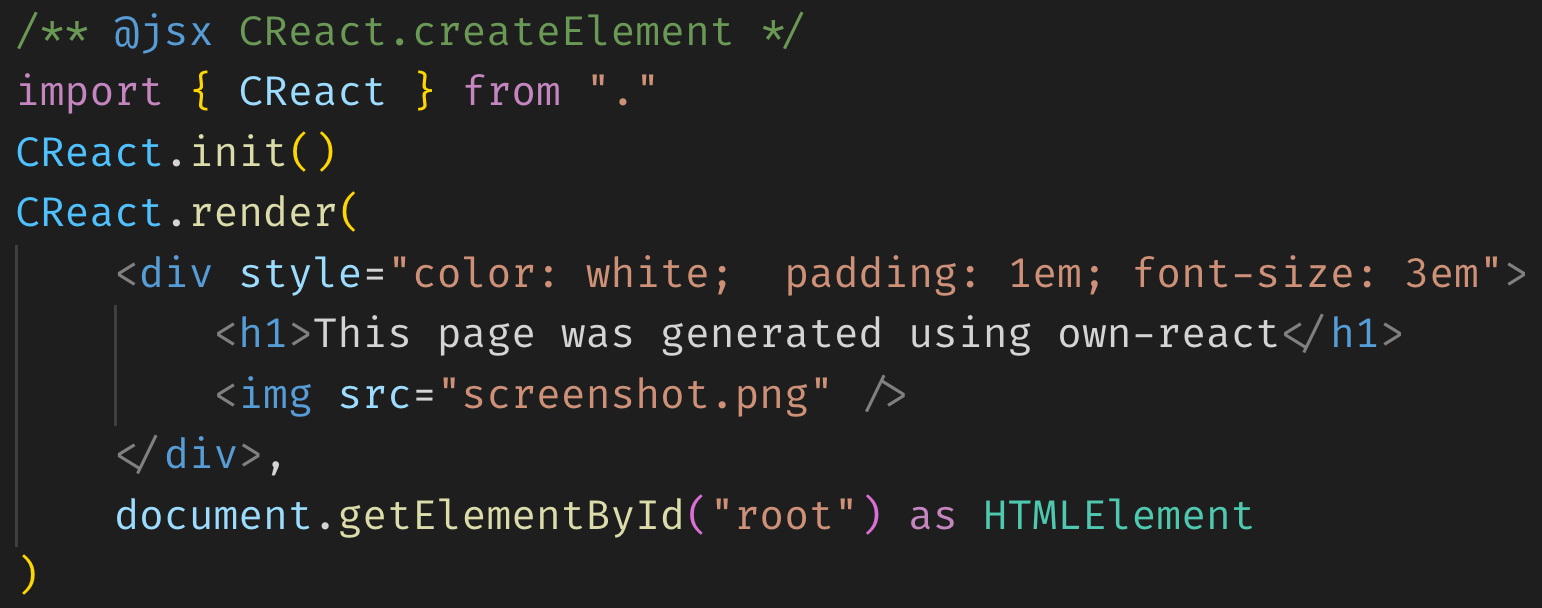
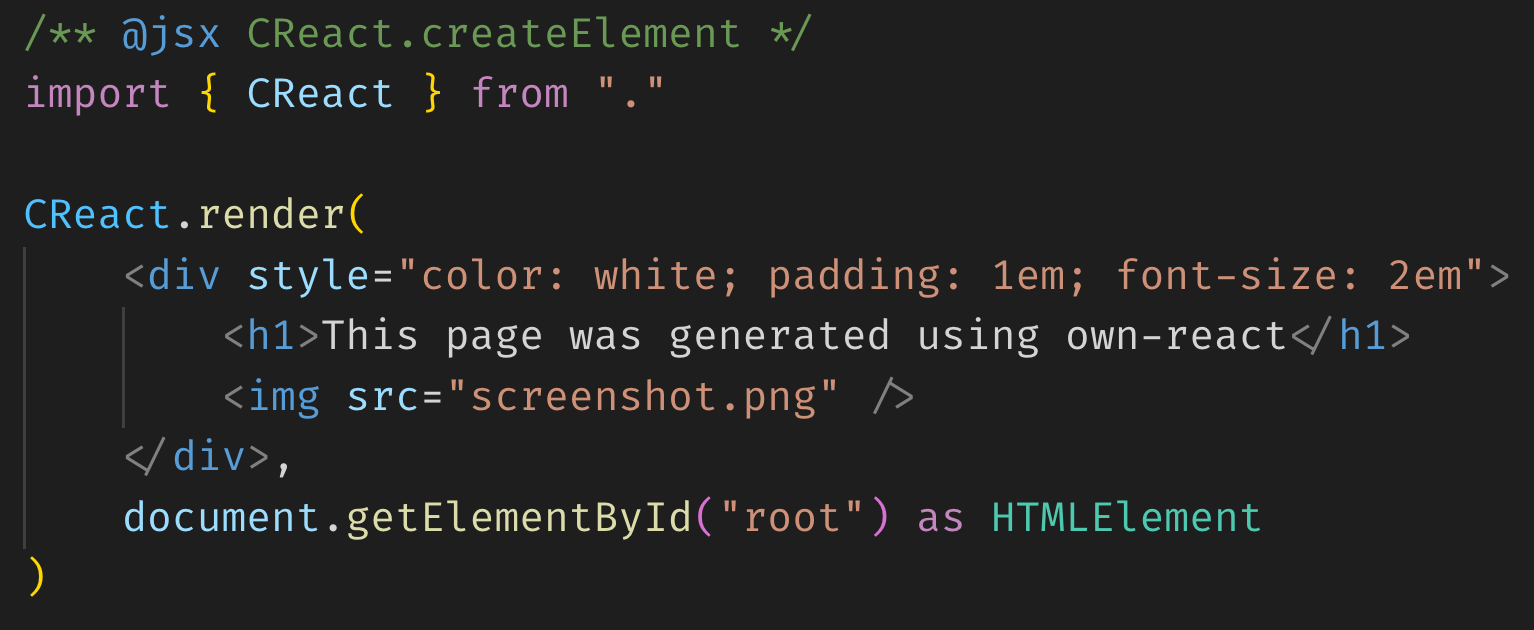
lazy commit + fiber tree traversing clean up

diff --git a/src/index.ts b/src/index.ts
@@ -1,8 +1,9 @@
+export const keys = <T extends AnyObject>(o: T) => Object.keys(o) as any as Array<keyof T>
+
 type CTextTag = string | number
 type CProps<T extends AnyObject> = { children: Array<CElement> } & T
-
-export type CTextElement<T extends CTextTag> = { type: string; props: CProps<{ nodeValue: T }> }
-export type CElement<T extends AnyObject = AnyObject> = { type: string; props: CProps<T> } | CTextElement<CTextTag>
+type CTextElement<T extends CTextTag> = { type: string; props: CProps<{ nodeValue: T }> }
+type CElement<T extends AnyObject = AnyObject> = { type: string; props: CProps<T> } | CTextElement<CTextTag>
 
 const createElement = <T extends AnyObject>(
 	type: string,
@@ -22,8 +23,6 @@ const createTextElement = <T extends CTextTag>(text: T): CTextElement<T> => ({
 	props: { nodeValue: text, children: [] }
 })
 
-const keys = <T extends AnyObject>(o: T) => Object.keys(o) as any as Array<keyof T>
-
 const createDom = <T extends Pick<Fiber, "type" | "props">>({ type, props }: T) => {
 	const node = type === TEXT_ELEMENT ? document.createTextNode("") : document.createElement(type)
 	keys(props)
@@ -33,7 +32,7 @@ const createDom = <T extends Pick<Fiber, "type" | "props">>({ type, props }: T) 
 }
 
 type NFiber = Fiber | null
-export type Fiber<T extends AnyObject = AnyObject> = {
+type Fiber<T extends AnyObject = AnyObject> = {
 	props: CProps<T>
 	type: string
 	dom: HTMLElement | Text | null
@@ -42,64 +41,82 @@ export type Fiber<T extends AnyObject = AnyObject> = {
 	sibling: NFiber
 }
 
-export const Fiber = ({ type, props }: CElement, parent: NFiber = null): Fiber => ({
+const mkFiber = ({ type, props }: CElement, delta: Partial<Fiber> = {}): Fiber => ({
 	type,
 	props,
-	parent,
+	parent: null,
 	dom: null,
 	child: null,
-	sibling: null
+	sibling: null,
+	...delta
 })
 
-let nextUnitOfWork: NFiber = null
 let rootFiber: NFiber = null
+let nextFiber: NFiber = null
 
-const workLoop = (deadline: IdleDeadline) => {
-	for (let pause = false; nextUnitOfWork && !pause; pause = deadline.timeRemaining() < 1)
-		nextUnitOfWork = performUnitOfWork(nextUnitOfWork)
-	requestIdleCallback(workLoop)
+// for testing purposes
+let _requestIdleCallback: typeof requestIdleCallback
+const init = (requestIdleCb?: typeof requestIdleCallback) => {
+	_requestIdleCallback = requestIdleCb || requestIdleCallback
+	_requestIdleCallback(workLoop)
 }
 
-export const buildChildren = (fiber: Fiber) => {
-	let prev: NFiber = null
-	fiber.props.children
-		.map(child => Fiber(child, fiber))
-		.forEach(current => {
-			if (!prev) fiber.child = current
-			else prev.sibling = current
-			prev = current
-		})
-}
-
-const performUnitOfWork = (fiber: Fiber): NFiber => {
-	if (!fiber.dom) fiber.dom = createDom(fiber)
-	if (fiber.parent) fiber.parent.dom?.appendChild(fiber.dom)
-
-	buildChildren(fiber)
-
-	if (fiber.child) return fiber.child
-
-	for (let f: NFiber = fiber; f; f = f.parent) if (f.sibling) return f.sibling
-
+const buildFibers = (fiber: NFiber, t: IdleDeadline) => {
+	while (fiber) {
+		if (t.timeRemaining() < 1) return fiber
+		fiber = buildFiber(fiber)
+	}
 	return null
 }
 
-const render = (element: CElement, dom: HTMLElement) => {
-	rootFiber = {
-		dom,
-		props: { children: [element] },
-		parent: null,
-		child: null,
-		sibling: null,
-		type: "ROOT"
+const workLoop = (deadline: IdleDeadline) => {
+	nextFiber = buildFibers(nextFiber, deadline)
+
+	if (!nextFiber && rootFiber) {
+		commit(rootFiber.child)
+		rootFiber = null
 	}
-	nextUnitOfWork = rootFiber
+
+	_requestIdleCallback(workLoop)
 }
 
-const init = () => requestIdleCallback(workLoop)
-const blockingRender = ({ type, props }: CElement, dest: HTMLElement) => {
-	const node = createDom({ type, props })
-	if (type !== TEXT_ELEMENT) props.children.forEach(child => blockingRender(child, node as HTMLElement))
-	dest.appendChild(node)
+const buildFiber = (fiber: NFiber): NFiber => {
+	if (!fiber) return null
+	if (!fiber.dom) fiber.dom = createDom(fiber)
+
+	buildFiberChildren(fiber)
+
+	if (fiber.child) return fiber.child
+	for (; fiber; fiber = fiber.parent) if (fiber.sibling) return fiber.sibling
+	return null
 }
-export const CReact = { createElement, render, blockingRender, init }
+
+const buildFiberChildren = (fiber: Fiber) => {
+	let prev: NFiber = null
+	fiber.props.children
+		.map(child => mkFiber(child, { parent: fiber }))
+		.forEach(child => {
+			if (!prev) fiber.child = child
+			else prev.sibling = child
+			prev = child
+		})
+}
+
+const render = (element: CElement, dom: HTMLElement) => {
+	if (!_requestIdleCallback) init()
+	rootFiber = mkFiber({ type: "ROOT", props: { children: [element] } }, { dom })
+	nextFiber = rootFiber
+}
+
+const commit = (fiber: NFiber) => {
+	if (!fiber) return
+
+	const { parent, child, sibling } = fiber
+	if (parent && parent.dom && fiber.dom) parent.dom.appendChild(fiber.dom)
+
+	commit(child)
+	commit(sibling)
+}
+
+export const CReactInternal = { mkFiber, buildFibers, buildFiber, buildFiberChildren }
+export const CReact = { createElement, render }

diff --git a/docs/example.35a0952f.js b/docs/example.35a0952f.js
@@ -1,0 +1,6 @@
+parcelRequire=function(e,r,t,n){var i,o="function"==typeof parcelRequire&&parcelRequire,u="function"==typeof require&&require;function f(t,n){if(!r[t]){if(!e[t]){var i="function"==typeof parcelRequire&&parcelRequire;if(!n&&i)return i(t,!0);if(o)return o(t,!0);if(u&&"string"==typeof t)return u(t);var c=new Error("Cannot find module '"+t+"'");throw c.code="MODULE_NOT_FOUND",c}p.resolve=function(r){return e[t][1][r]||r},p.cache={};var l=r[t]=new f.Module(t);e[t][0].call(l.exports,p,l,l.exports,this)}return r[t].exports;function p(e){return f(p.resolve(e))}}f.isParcelRequire=!0,f.Module=function(e){this.id=e,this.bundle=f,this.exports={}},f.modules=e,f.cache=r,f.parent=o,f.register=function(r,t){e[r]=[function(e,r){r.exports=t},{}]};for(var c=0;c<t.length;c++)try{f(t[c])}catch(e){i||(i=e)}if(t.length){var l=f(t[t.length-1]);"object"==typeof exports&&"undefined"!=typeof module?module.exports=l:"function"==typeof define&&define.amd?define(function(){return l}):n&&(this[n]=l)}if(parcelRequire=f,i)throw i;return f}({"B6dB":[function(require,module,exports) {
+"use strict";function n(r){return(n="function"==typeof Symbol&&"symbol"==typeof Symbol.iterator?function(n){return typeof n}:function(n){return n&&"function"==typeof Symbol&&n.constructor===Symbol&&n!==Symbol.prototype?"symbol":typeof n})(r)}Object.defineProperty(exports,"__esModule",{value:!0}),exports.keys=exports.CReactInternal=exports.CReact=void 0;var r=function(){return(r=Object.assign||function(n){for(var r,e=1,t=arguments.length;e<t;e++)for(var o in r=arguments[e])Object.prototype.hasOwnProperty.call(r,o)&&(n[o]=r[o]);return n}).apply(this,arguments)},e=function(n){return Object.keys(n)};exports.keys=e;var t,o=function(e,t){void 0===t&&(t={});for(var o=[],i=2;i<arguments.length;i++)o[i-2]=arguments[i];return{type:e,props:r(r({},t),{children:o.map(function(r){return"object"===n(r)?r:l(r)})})}},i="TEXT_ELEMENT",l=function(n){return{type:i,props:{nodeValue:n,children:[]}}},u=function(n){var r=n.type,t=n.props,o=r===i?document.createTextNode(""):document.createElement(r);return e(t).filter(function(n){return"children"!==n}).forEach(function(n){return o[n]=t[n]}),o},c=function(n,e){var t=n.type,o=n.props;return void 0===e&&(e={}),r({type:t,props:o,parent:null,dom:null,child:null,sibling:null},e)},p=null,f=null,a=function(n){(t=n||requestIdleCallback)(s)},d=function(n,r){for(;n;){if(r.timeRemaining()<1)return n;n=y(n)}return null},s=function n(r){!(f=d(f,r))&&p&&(h(p.child),p=null),t(n)},y=function(n){if(!n)return null;if(n.dom||(n.dom=u(n)),b(n),n.child)return n.child;for(;n;n=n.parent)if(n.sibling)return n.sibling;return null},b=function(n){var r=null;n.props.children.map(function(r){return c(r,{parent:n})}).forEach(function(e){r?r.sibling=e:n.child=e,r=e})},m=function(n,r){t||a(),p=c({type:"ROOT",props:{children:[n]}},{dom:r}),f=p},h=function n(r){if(r){var e=r.parent,t=r.child,o=r.sibling;e&&e.dom&&r.dom&&e.dom.appendChild(r.dom),n(t),n(o)}},v={mkFiber:c,buildFibers:d,buildFiber:y,buildFiberChildren:b};exports.CReactInternal=v;var g={createElement:o,render:m};exports.CReact=g;
+},{}],"UWex":[function(require,module,exports) {
+"use strict";var e=require(".");e.CReact.render(e.CReact.createElement("div",{style:"color: white; padding: 1em; font-size: 2em"},e.CReact.createElement("h1",null,"This page was generated using own-react"),e.CReact.createElement("img",{src:"screenshot.png"})),document.getElementById("root"));
+},{".":"B6dB"}]},{},["UWex"], null)
+//# sourceMappingURL=example.35a0952f.js.map

diff --git a/src/index.spec.tsx b/src/index.spec.tsx
@@ -1,25 +1,25 @@
 /** @jsx CReact.createElement */
-import { buildChildren, CReact, Fiber } from "."
+import { CReactInternal, CReact } from "."
 import { lazyToEqual, toEqual } from "./test-helpers"
 
 describe("buildSiblings()", () => {
 	it("does nothing when no children are present", () => {
-		const h1 = Fiber({ type: "h1", props: { children: [] } })
-		buildChildren(h1)
+		const h1 = CReactInternal.mkFiber({ type: "h1", props: { children: [] } })
+		CReactInternal.buildFiberChildren(h1)
 		expect(h1.child).toEqual(null)
 	})
 
 	it("creates 1st child", () => {
-		const h1 = Fiber({ type: "h1", props: { children: [{ type: "b", props: { children: [] } }] } })
-		buildChildren(h1)
+		const h1 = CReactInternal.mkFiber({ type: "h1", props: { children: [{ type: "b", props: { children: [] } }] } })
+		CReactInternal.buildFiberChildren(h1)
 		toEqual(h1.child, { parent: h1, child: null, dom: null, sibling: null, type: "b", props: { children: [] } })
 	})
 
 	it("creates 1st and 2nd child", () => {
 		const c1 = { type: "b", props: { children: [] } }
 		const c2 = { type: "span", props: { children: [] } }
-		const h1 = Fiber({ type: "h1", props: { children: [c1, c2] } })
-		buildChildren(h1)
+		const h1 = CReactInternal.mkFiber({ type: "h1", props: { children: [c1, c2] } })
+		CReactInternal.buildFiberChildren(h1)
 		const f2 = { type: "span", parent: h1, child: null, dom: null, sibling: null, props: { children: [] } }
 		const f1 = { type: "b", parent: h1, child: null, dom: null, sibling: f2, props: { children: [] } }
 		toEqual(h1.child, f1)

diff --git a/docs/index.html b/docs/index.html
@@ -1,1 +1,1 @@
-<!DOCTYPE html><html lang="en"><head><title>Own react</title></head><body style="margin:0;padding:0;background:#1d1e1e"> <div id="root"></div> <script src="example.d61494c2.js"></script> </body></html>
+<!DOCTYPE html><html lang="en"><head><title>Own react</title></head><body style="margin:0;padding:0;background:#1d1e1e"> <div id="root"></div> <script src="example.35a0952f.js"></script> </body></html>

diff --git a/src/example.tsx b/src/example.tsx
@@ -1,8 +1,8 @@
 /** @jsx CReact.createElement */
 import { CReact } from "."
-CReact.init()
+
 CReact.render(
-	<div style="color: white;  padding: 1em; font-size: 3em">
+	<div style="color: white; padding: 1em; font-size: 2em">
 		<h1>This page was generated using own-react</h1>
 		<img src="screenshot.png" />
 	</div>,
